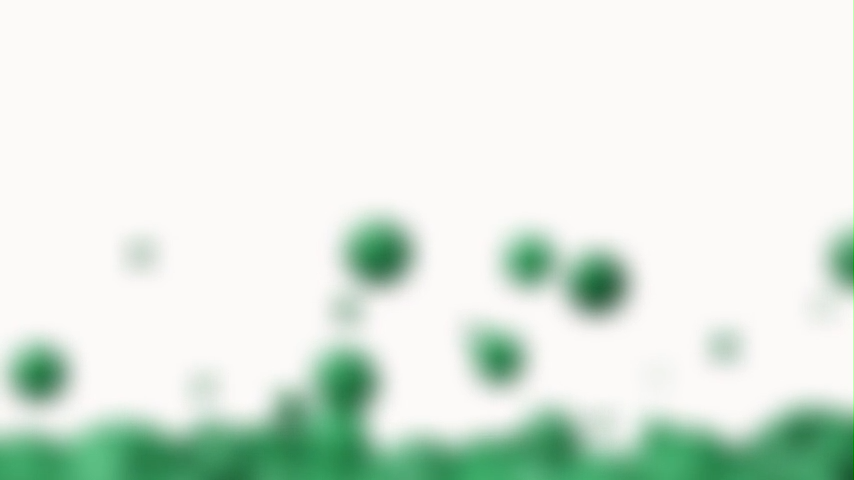
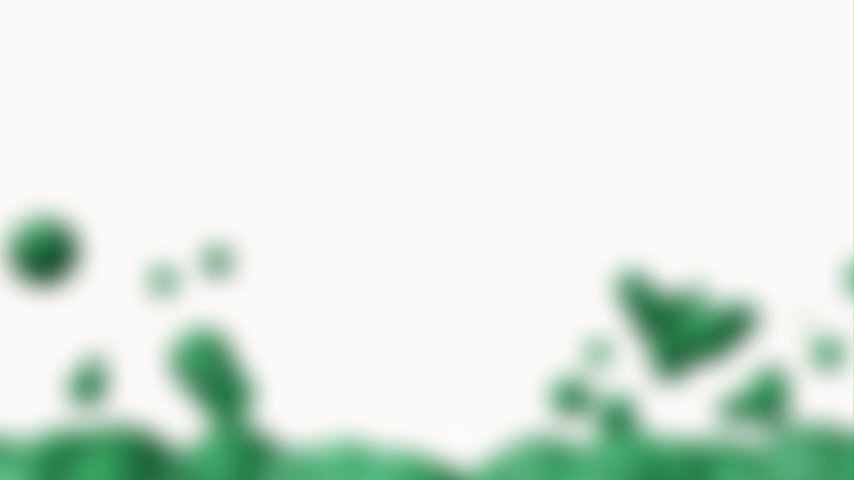
feat: added typewriter effect and changed background

diff --git a/src/app/page.tsx b/src/app/page.tsx
@@ -1,12 +1,15 @@
 "use client";
 
+import { useState } from "react";
 import { ViewTransition } from "react";
 import { useRouter } from "next/navigation";
 import { Textarea } from "@/components/ui/textarea";
 import Header from "@/components/common/header";
+import Typewriter from "typewriter-effect";
 
 export default function Home() {
   const router = useRouter();
+  const [value, setValue] = useState("");
 
   const goToSearch = () => {
     router.push("/busca", { transitionTypes: ["nav-forward"] });
@@ -51,10 +54,31 @@ export default function Home() {
           </ViewTransition>
 
           <ViewTransition name="search-textarea">
-            <div className="w-full max-w-2xl">
+            <div className="w-full max-w-2xl relative">
+              {!value && (
+                <span className="absolute left-3 top-3 pointer-events-none text-gray-500">
+                  <Typewriter
+                    component="div"
+                    options={{
+                      strings: [
+                        "Digite um tema de redação...",
+                        "Ex: Desafios para a valorização da herança africana no Brasil",
+                        "Ou informe algumas palavras-chave...",
+                      ],
+                      autoStart: true,
+                      loop: true,
+                      deleteSpeed: 15,
+                      delay: 100,
+                    }}
+                  />
+                </span>
+              )}
+
               <Textarea
                 onFocus={goToSearch}
-                placeholder="Digite o tema..."
+                value={value}
+                onChange={(event) => setValue(event.target.value)}
+                // placeholder="Digite o tema..."
                 className="min-h-20 text-base resize-none rounded-xl"
               />
             </div>

diff --git a/src/app/busca/page.tsx b/src/app/busca/page.tsx
@@ -40,7 +40,7 @@ export default function Busca() {
                     handleSubmit();
                   }
                 }}
-                placeholder="Digite o tema..."
+                placeholder="Informe o tema..."
                 className="min-h-40 text-base resize-none rounded-xl pb-14"
               />
               <button